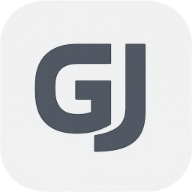
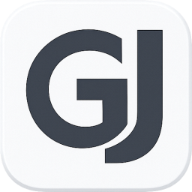
feature: update branding
- new logo
- new app icon
- change sizes to improve UX

diff --git a/frontend/src/pages/RegistrationPage/RegistrationPage.tsx b/frontend/src/pages/RegistrationPage/RegistrationPage.tsx
@@ -175,7 +175,7 @@ const RegistrationPage = () => {
             <VStack align={'center'} style={{ marginTop: '1rem' }}>
                 <img
                     src={logo}
-                    style={{ height: '100px' }}
+                    style={{ height: '40px' }}
                     alt={'Game Journal logo'}
                 ></img>
                 <h2>Create your account</h2>

diff --git a/frontend/src/pages/LoginPage/LoginPage.tsx b/frontend/src/pages/LoginPage/LoginPage.tsx
@@ -132,7 +132,7 @@ const LoginPage = () => {
             <VStack align={'center'} style={{ marginTop: '1rem' }}>
                 <img
                     src={Logo}
-                    style={{ height: '100px' }}
+                    style={{ height: '40px' }}
                     alt={'Game Journal logo'}
                 ></img>
                 <h2>Sign in to your account</h2>

diff --git a/frontend/src/pages/LandingPage/LandingPage.module.css b/frontend/src/pages/LandingPage/LandingPage.module.css
@@ -5,7 +5,8 @@
 }
 
 .appLogo {
-    height: 150px;
+    height: 80px;
+    margin-bottom: 2rem;
 }
 
 .subheader {
